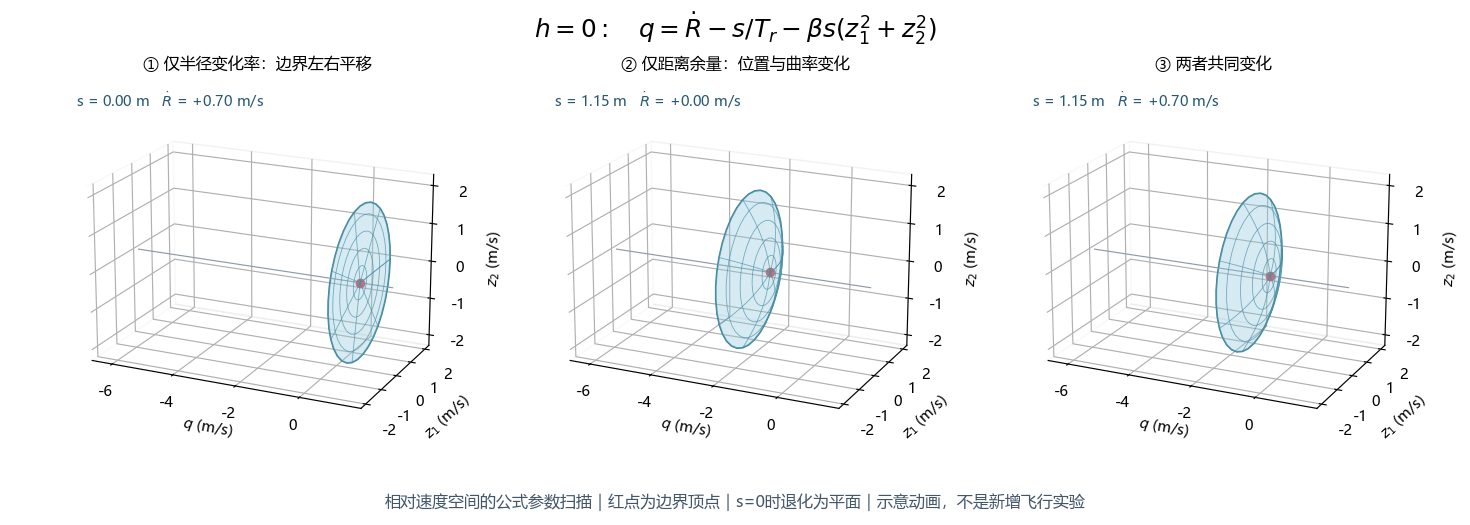
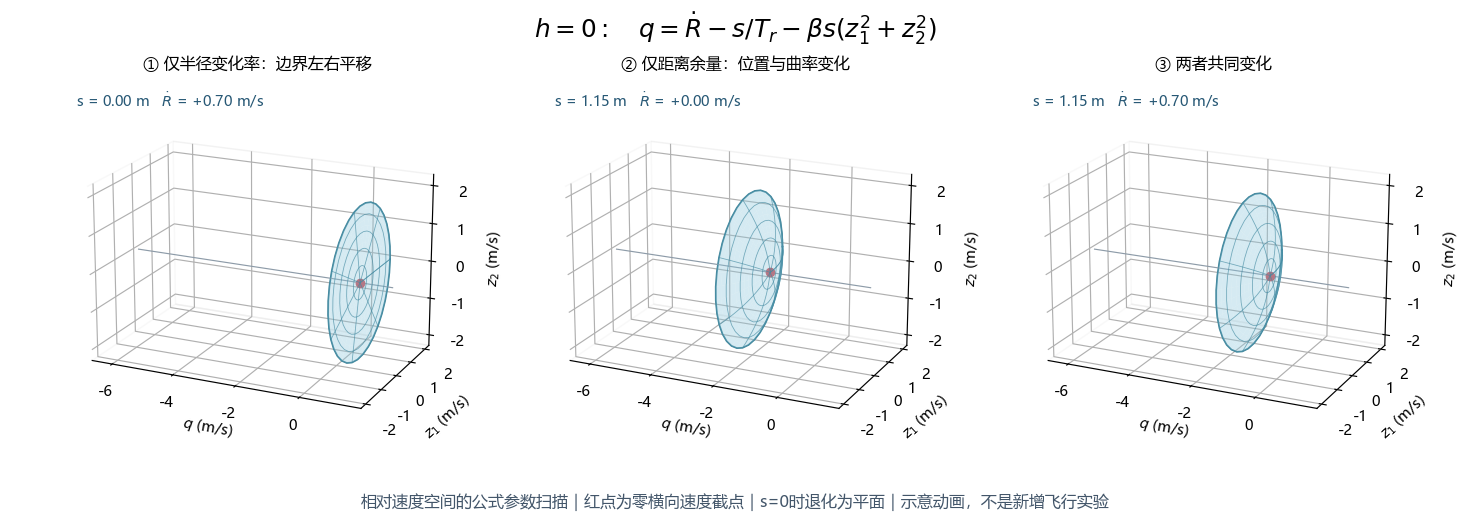
精确标注零横向速度截点与平面退化情形

Changed region(s): [[0.2449, 0.9143, 0.7653, 0.9752]]

diff --git a/3d-ra-dpcbf/reproducibility/render_dynamic_boundary.py b/3d-ra-dpcbf/reproducibility/render_dynamic_boundary.py
@@ -19,7 +19,7 @@ def main():
  rr,aa=np.meshgrid(rad,angle);z1=rr*np.cos(aa);z2=rr*np.sin(aa)
  fig=plt.figure(figsize=(14,5),dpi=105)
  axes=[fig.add_subplot(1,3,i+1,projection='3d') for i in range(3)]
- fig.text(.5,.035,'相对速度空间的公式参数扫描｜红点为边界顶点｜s=0时退化为平面｜示意动画，不是新增飞行实验',ha='center',fontsize=11,color='#43566A')
+ fig.text(.5,.035,'相对速度空间的公式参数扫描｜红点为零横向速度截点｜s=0时退化为平面｜示意动画，不是新增飞行实验',ha='center',fontsize=11,color='#43566A')
  frames=[];records=[];max_residual=0.
  for k in range(64):
   phase=2*np.pi*k/64;rd=.7*np.sin(phase);s=1.15+.85*np.cos(phase)

diff --git a/3d-ra-dpcbf/README.md b/3d-ra-dpcbf/README.md
@@ -40,7 +40,7 @@
 动画由冻结代码参数计算 $h=0$ 的边界：$q=\dot R-s/T_r-\beta s(z_1^2+z_2^2)$。
 ① 仅改变半径变化率，边界左右平移；② 仅改变距离余量，顶点位置和曲率共同改变；③ 两者共同变化。
 **当 $s=0$ 时横向项消失，边界严格退化为平面，不能继续画成有曲率的抛物面。**
-这是一段明确标注的公式参数扫描，不是新增飞行轨迹或安全证明。红点为顶点，所有坐标均为相对速度。
+这是一段明确标注的公式参数扫描，不是新增飞行轨迹或安全证明。红点为零横向速度处的截点（有曲率时为顶点），所有坐标均为相对速度。
 [绘图代码](reproducibility/render_dynamic_boundary.py) · [逐帧参数](numerical/data/抛物面动态变化_参数.csv)
 
 ## 方法怎样工作
